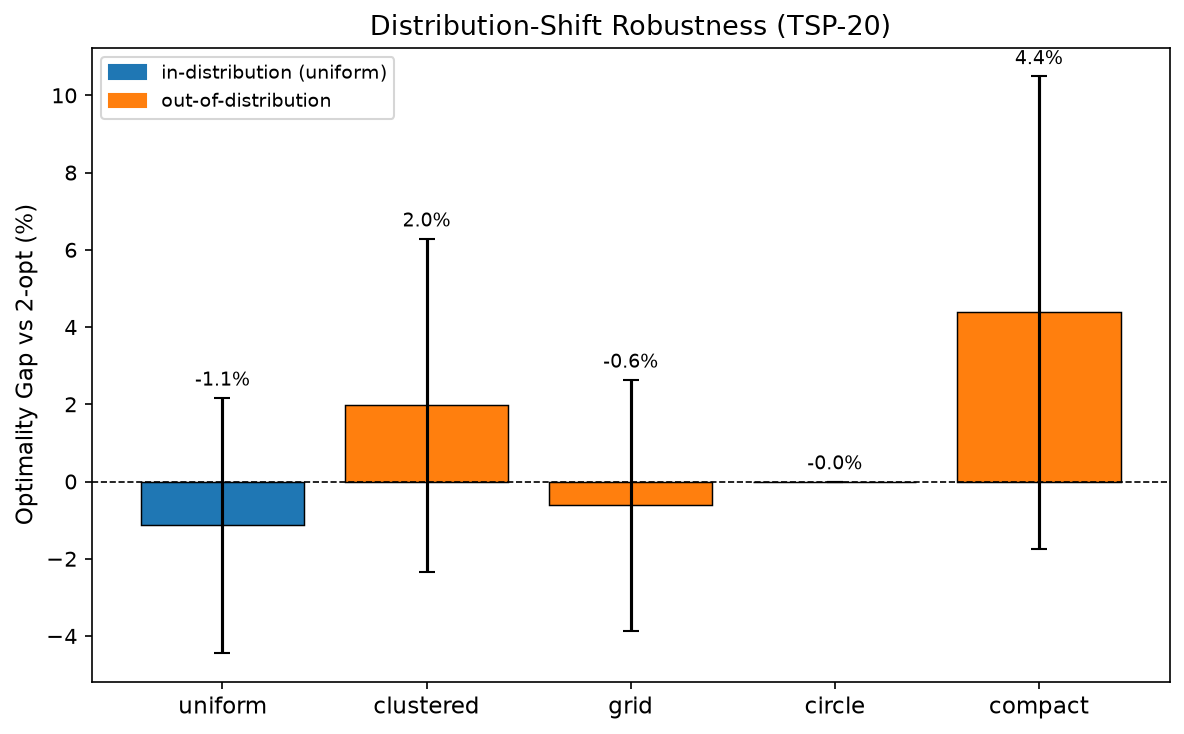
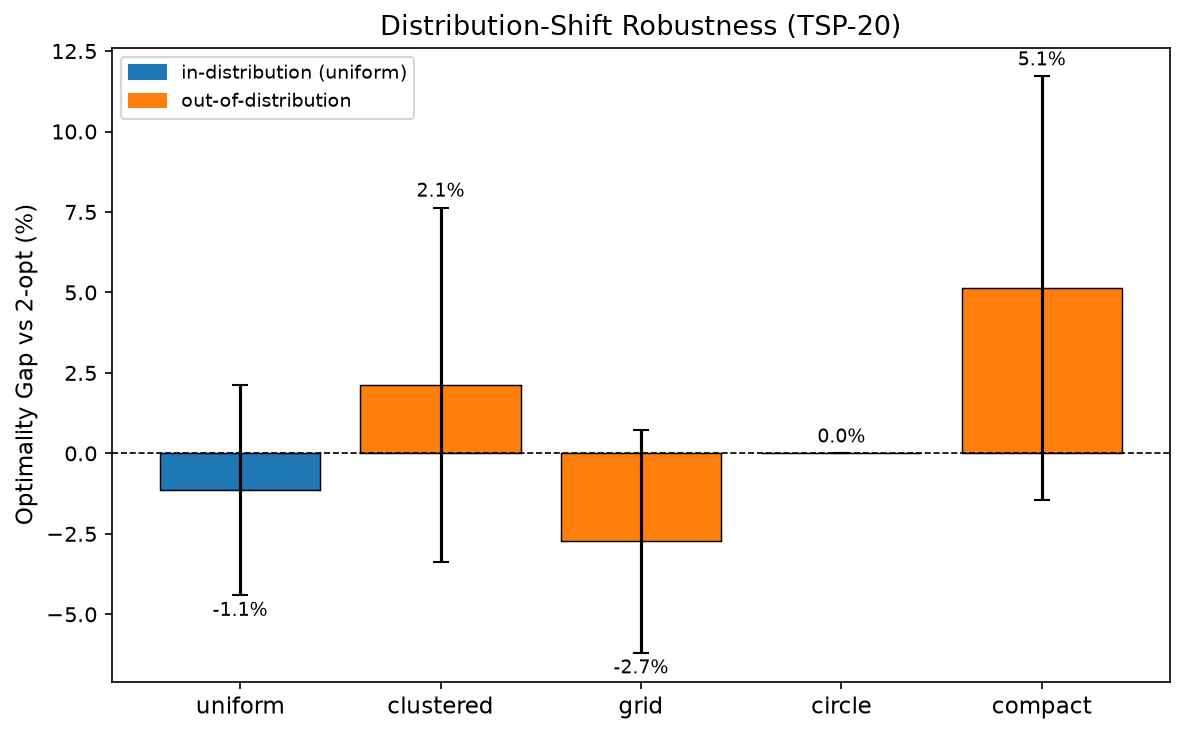
fix: unbiased REINFORCE log-prob, correct one-sided p-value, symmetric city grid
src/model.py: log-probability used torch.log(probs + 1e-8) instead of
log_softmax, which is a biased estimator (log(p+eps) > log(p)) and made
the epsilon term unnecessary since masked cities have zero probability.
Now uses F.log_softmax on the masked logits directly.

src/baseline.py: update_if_better always logged p_value/2 regardless of
which direction was significant, so a candidate that was significantly
*worse* would log a near-zero p-value implying significance in the wrong
direction. The update gate itself was already correct; only the logged
value is fixed.

src/env.py: sample_grid built a g x g grid (g=ceil(sqrt(n))) and took the
first n points in row-major order, which for non-square n silently
drops an entire row (e.g. n=20 keeps 4 of 5 y-values). Now samples n
points uniformly from the grid without replacement, preserving symmetry.

Retrained the model and reran the distribution-shift evaluation with
these fixes; README convergence and shift tables updated (grid row
changed meaningfully: -0.6% -> -2.7% gap, since it's the row the
sample_grid fix directly affects).

diff --git a/src/env.py b/src/env.py
@@ -64,7 +64,9 @@ def sample_grid(batch: int, n: int, device: str = "cpu",
     side = int(np.ceil(np.sqrt(n)))
     g = np.linspace(0.05, 0.95, side)
     gx, gy = np.meshgrid(g, g)
-    grid_pts = np.stack([gx.ravel(), gy.ravel()], axis=1)[:n]  # (n,2)
+    all_pts = np.stack([gx.ravel(), gy.ravel()], axis=1)  # (side*side, 2)
+    chosen_idx = rs.choice(len(all_pts), size=n, replace=False)
+    grid_pts = all_pts[chosen_idx]  # (n, 2) — symmetric random sample from full grid
     pts = np.tile(grid_pts, (batch, 1, 1)).astype(np.float32)
     if jitter > 0:
         noise = rs.uniform(-jitter, jitter, size=(batch, n, 2)).astype(np.float32)

diff --git a/src/baseline.py b/src/baseline.py
@@ -59,4 +59,4 @@ class GreedyRolloutBaseline:
             updated = True
 
         self.model.train()
-        return updated, float(p_value / 2)
+        return updated, float(p_value / 2) if t_stat < 0 else float(1.0 - p_value / 2)

diff --git a/src/model.py b/src/model.py
@@ -125,7 +125,7 @@ class TSPModel(nn.Module):
             else:
                 chosen = torch.multinomial(probs, 1).squeeze(1)
 
-            log_p = torch.log(probs[batch_idx, chosen] + 1e-8)
+            log_p = F.log_softmax(logits, dim=-1)[batch_idx, chosen]
             log_probs += log_p
 
             tour[:, step] = chosen

diff --git a/README.md b/README.md
@@ -1,6 +1,6 @@
 # rl-tsp
 
-**Strongest finding:** A TSP-20 attention model trained only on uniform random cities matches or _beats_ the 2-opt heuristic on four of five test distributions — including out-of-distribution ones — with the single notable exception being cities confined to a compact sub-region (+4.4% gap).
+**Strongest finding:** A TSP-20 attention model trained only on uniform random cities matches or _beats_ the 2-opt heuristic on four of five test distributions — including out-of-distribution ones — with the single notable exception being cities confined to a compact sub-region (+5.1% gap).
 
 **Demonstrates:** Attention-based REINFORCE with a greedy rollout baseline; distribution-shift robustness analysis; surprising OOD generalization of learned routing policies.
 
@@ -23,10 +23,10 @@ Model trained on **uniform** random cities, evaluated without retraining on all 
 | Distribution | Gap vs 2-opt | Model tour | Model wins? |
 |---|---|---|---|
 | uniform (in-dist) | −1.1% ± 3.3% | 3.891 | ✓ |
-| grid              | −0.6% ± 3.3% | 4.589 | ✓ |
-| circle            | −0.0% ± 0.0% | 2.569 | ✓ |
-| clustered         | +2.0% ± 4.3% | 2.156 | — |
-| compact           | +4.4% ± 6.1% | 1.642 | — |
+| grid              | −2.7% ± 3.5% | 4.704 | ✓ |
+| circle            | −0.0% ± 0.0% | 2.565 | ✓ |
+| clustered         | +2.1% ± 5.5% | 2.158 | — |
+| compact           | +5.1% ± 6.6% | 1.646 | — |
 
 Gap = (model − 2-opt) / 2-opt × 100%. Negative = model shorter. Evaluation: 1000 instances per distribution, fixed seed 1234.
 
@@ -42,8 +42,8 @@ Gap = (model − 2-opt) / 2-opt × 100%. Negative = model shorter. Evaluation: 1
 
 | Epoch | Avg tour length |
 |---|---|
-| 1   | 5.014 |
-| 10  | 4.037 |
+| 1   | 5.015 |
+| 10  | 4.039 |
 | 50  | 3.941 |
 | 100 | 3.912 |
 